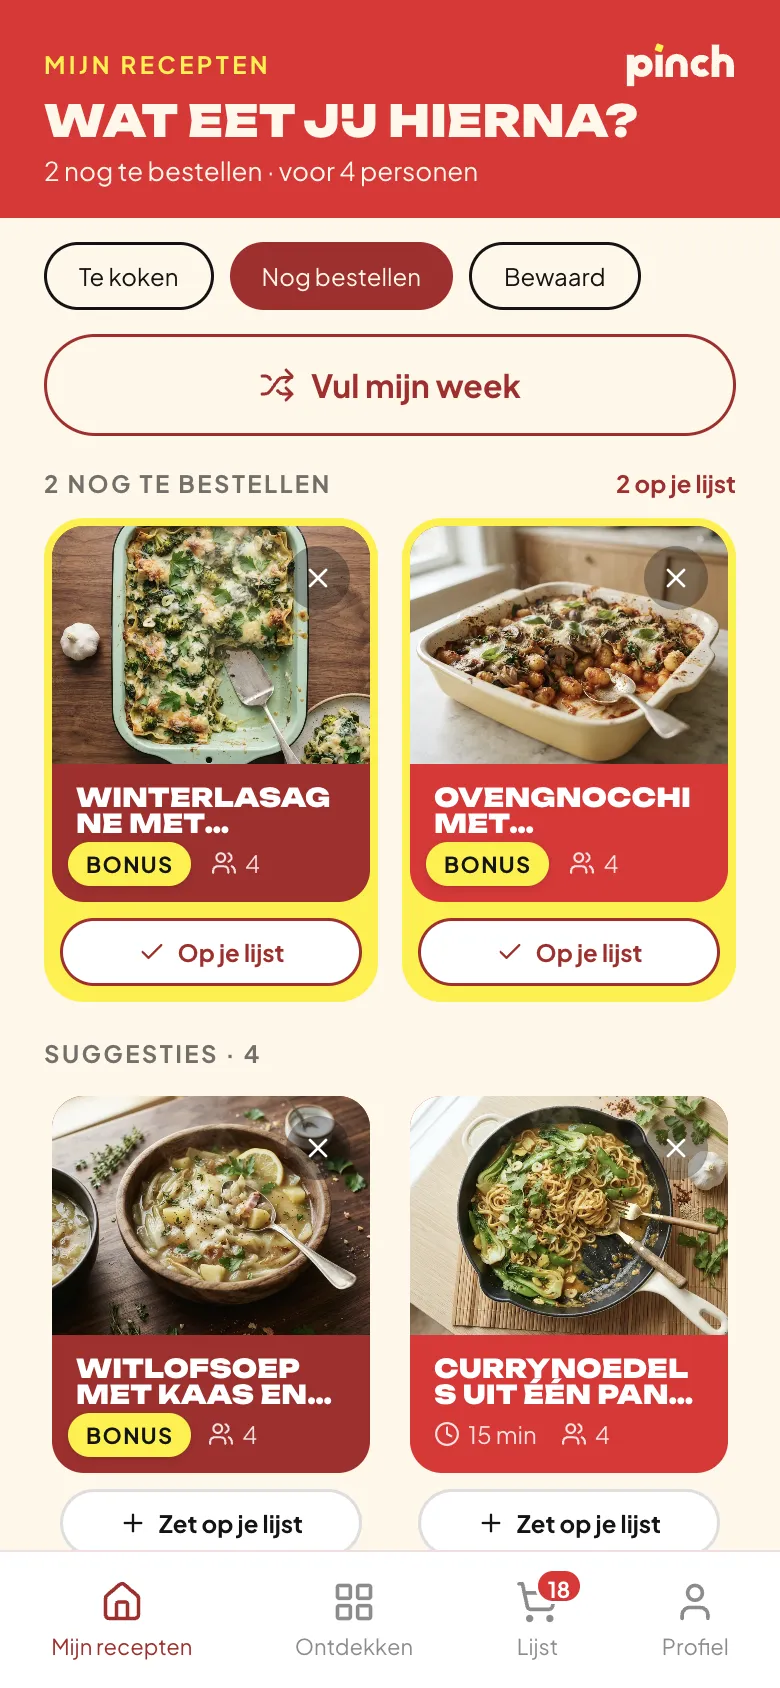
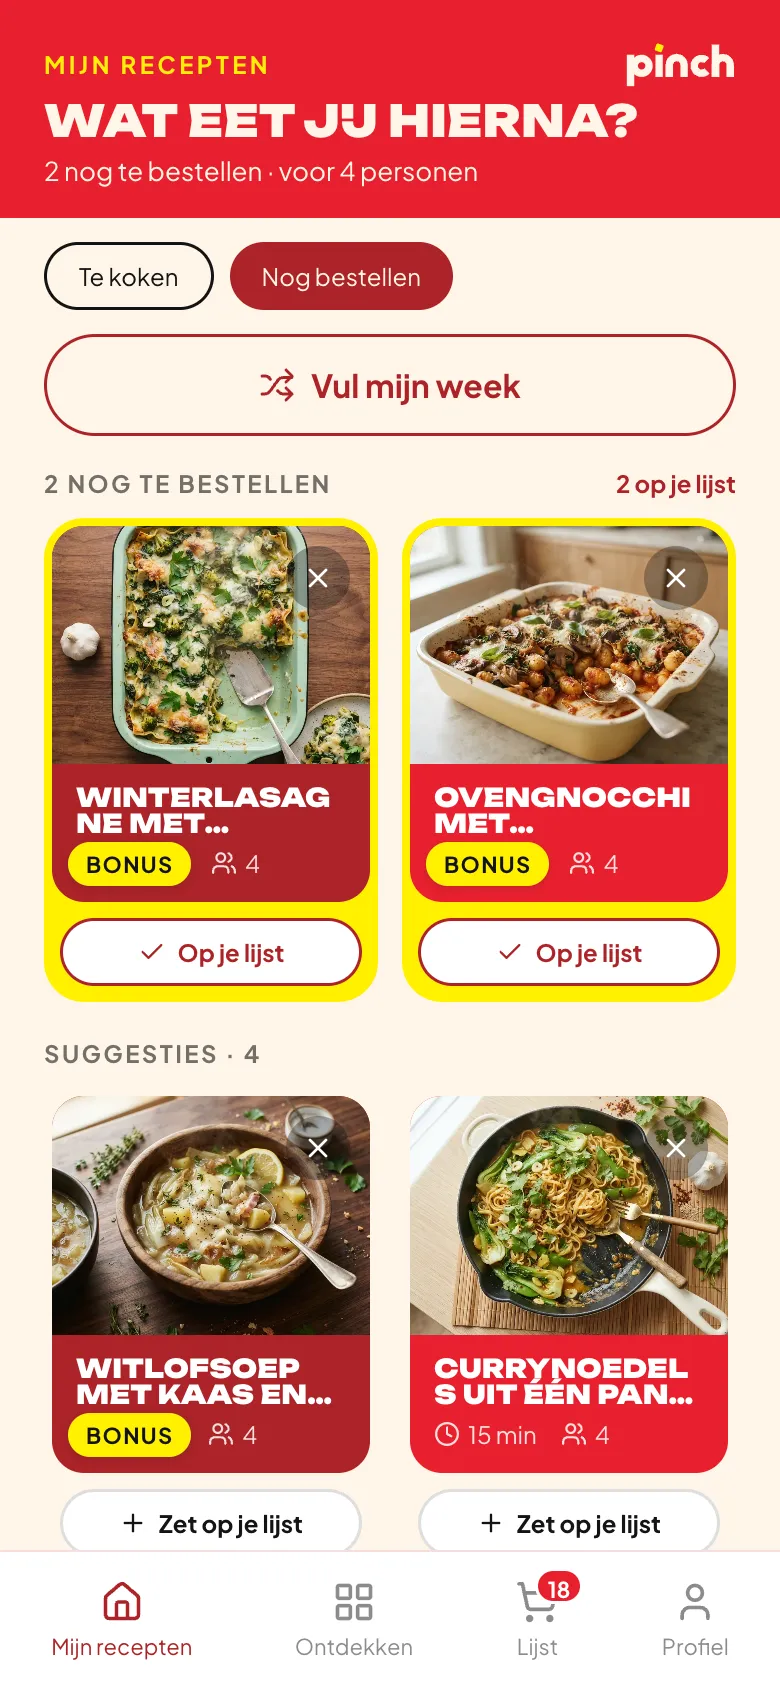
Uitleg: afbeelding van Mijn recepten met twee chips (#124)
Sinds #123 is Bewaard weg. Nieuwe schermafbeelding van productie, en het
uitgelichte vlak bij Te koken valt nu op de twee chips.

diff --git a/app/src/components/Uitleg.tsx b/app/src/components/Uitleg.tsx
@@ -55,7 +55,7 @@ const KAARTEN: Kaart[] = [
     kop: 'Te koken',
     tekst: 'Na het bestellen staan je recepten bij Te koken. Gekookt? Tik op het kruisje, dan vind je het terug onderaan Nog bestellen.',
     beeld: mijnRecepten, alt: 'Het scherm Mijn recepten, met de knoppen Te koken en Nog bestellen uitgelicht.',
-    verhouding: 1688 / 780, licht: { x: 0.046, y: 0.139, b: 0.785, h: 0.05 }, rond: 999,
+    verhouding: 1688 / 780, licht: { x: 0.046, y: 0.139, b: 0.546, h: 0.05 }, rond: 999,
   },
   {
     kop: 'Voorraadkast',
